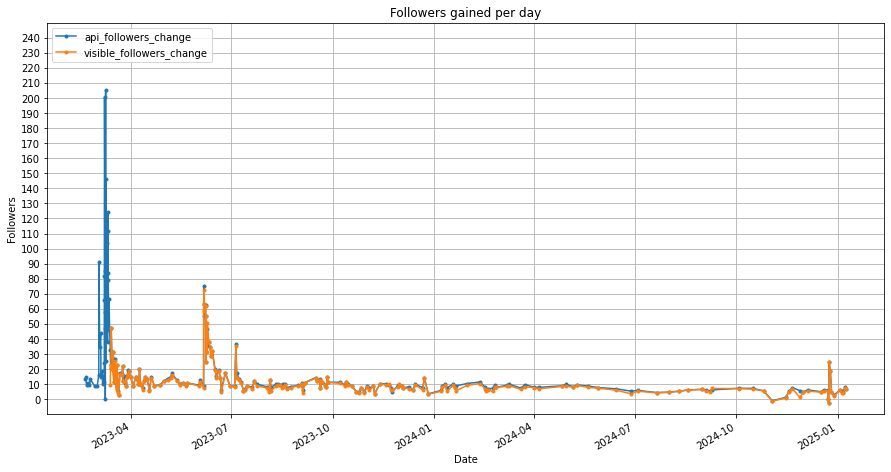
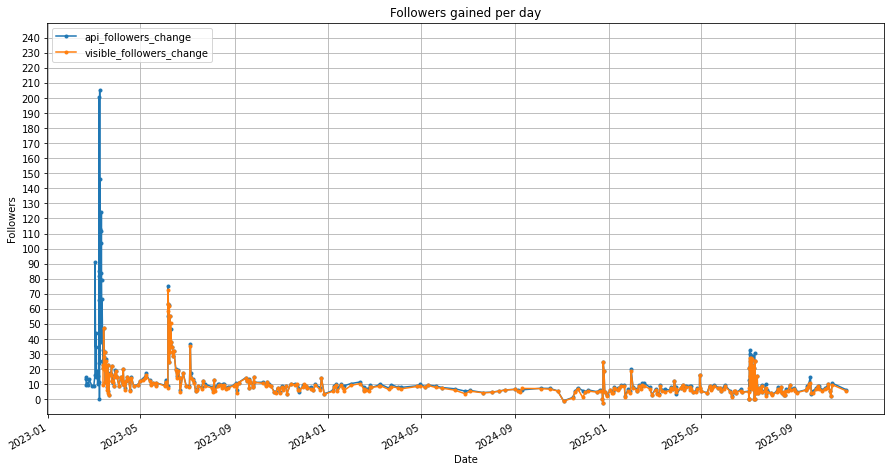
update statistics

diff --git a/articles/statistics.html b/articles/statistics.html
@@ -24,7 +24,7 @@
   <div class="content">
     <h1>Statistics</h1>
     <hr>
-    <p>I have extensive records of statistics. I have some Python scripts to log these stats semi-automatically. Here are some graphs...</p>
+    <p>I have extensive records of statistics. I have some Python scripts to log these stats semi-automatically.</p>
     
     <img src="/img/stats/followers all time.png" loading="lazy">
     <p class="caption">The 3 different lines correspond to different data sources. Visible followers is the number as seen in the followers page and is usually the value people refer to as follower count. As for the API, it includes deleted accounts which is why it is a bit higher than the others. Scratch DB was an unofficial API pulling data from the official API.</p><br>
@@ -48,7 +48,10 @@
     <p class="caption">Remixes/views. Higher means more remixes. Some projects influence more remixing than others.</p><br>
 
     <img src="/img/stats/messages per day.png" loading="lazy">
-    <p class="caption">Messages received per day. The many sharp peaks and dips correspond to weekdays and weekends, respectively. The largest peaks are due to sharing projects (The Mast and Animdustry). Pictured is approximately 76000 messages.</p><br>
+    <p class="caption">Messages received per day. The largest peaks are due to sharing projects (The Mast, Procedural Sandbox, and Animdustry).</p><br>
+
+    <img src="/img/stats/messages weekly.png" loading="lazy">
+    <p class="caption">Messages counted by the hour of the week they are received, starting from monday. 110000 messages in total.</p><br>
 
 </div>
 
